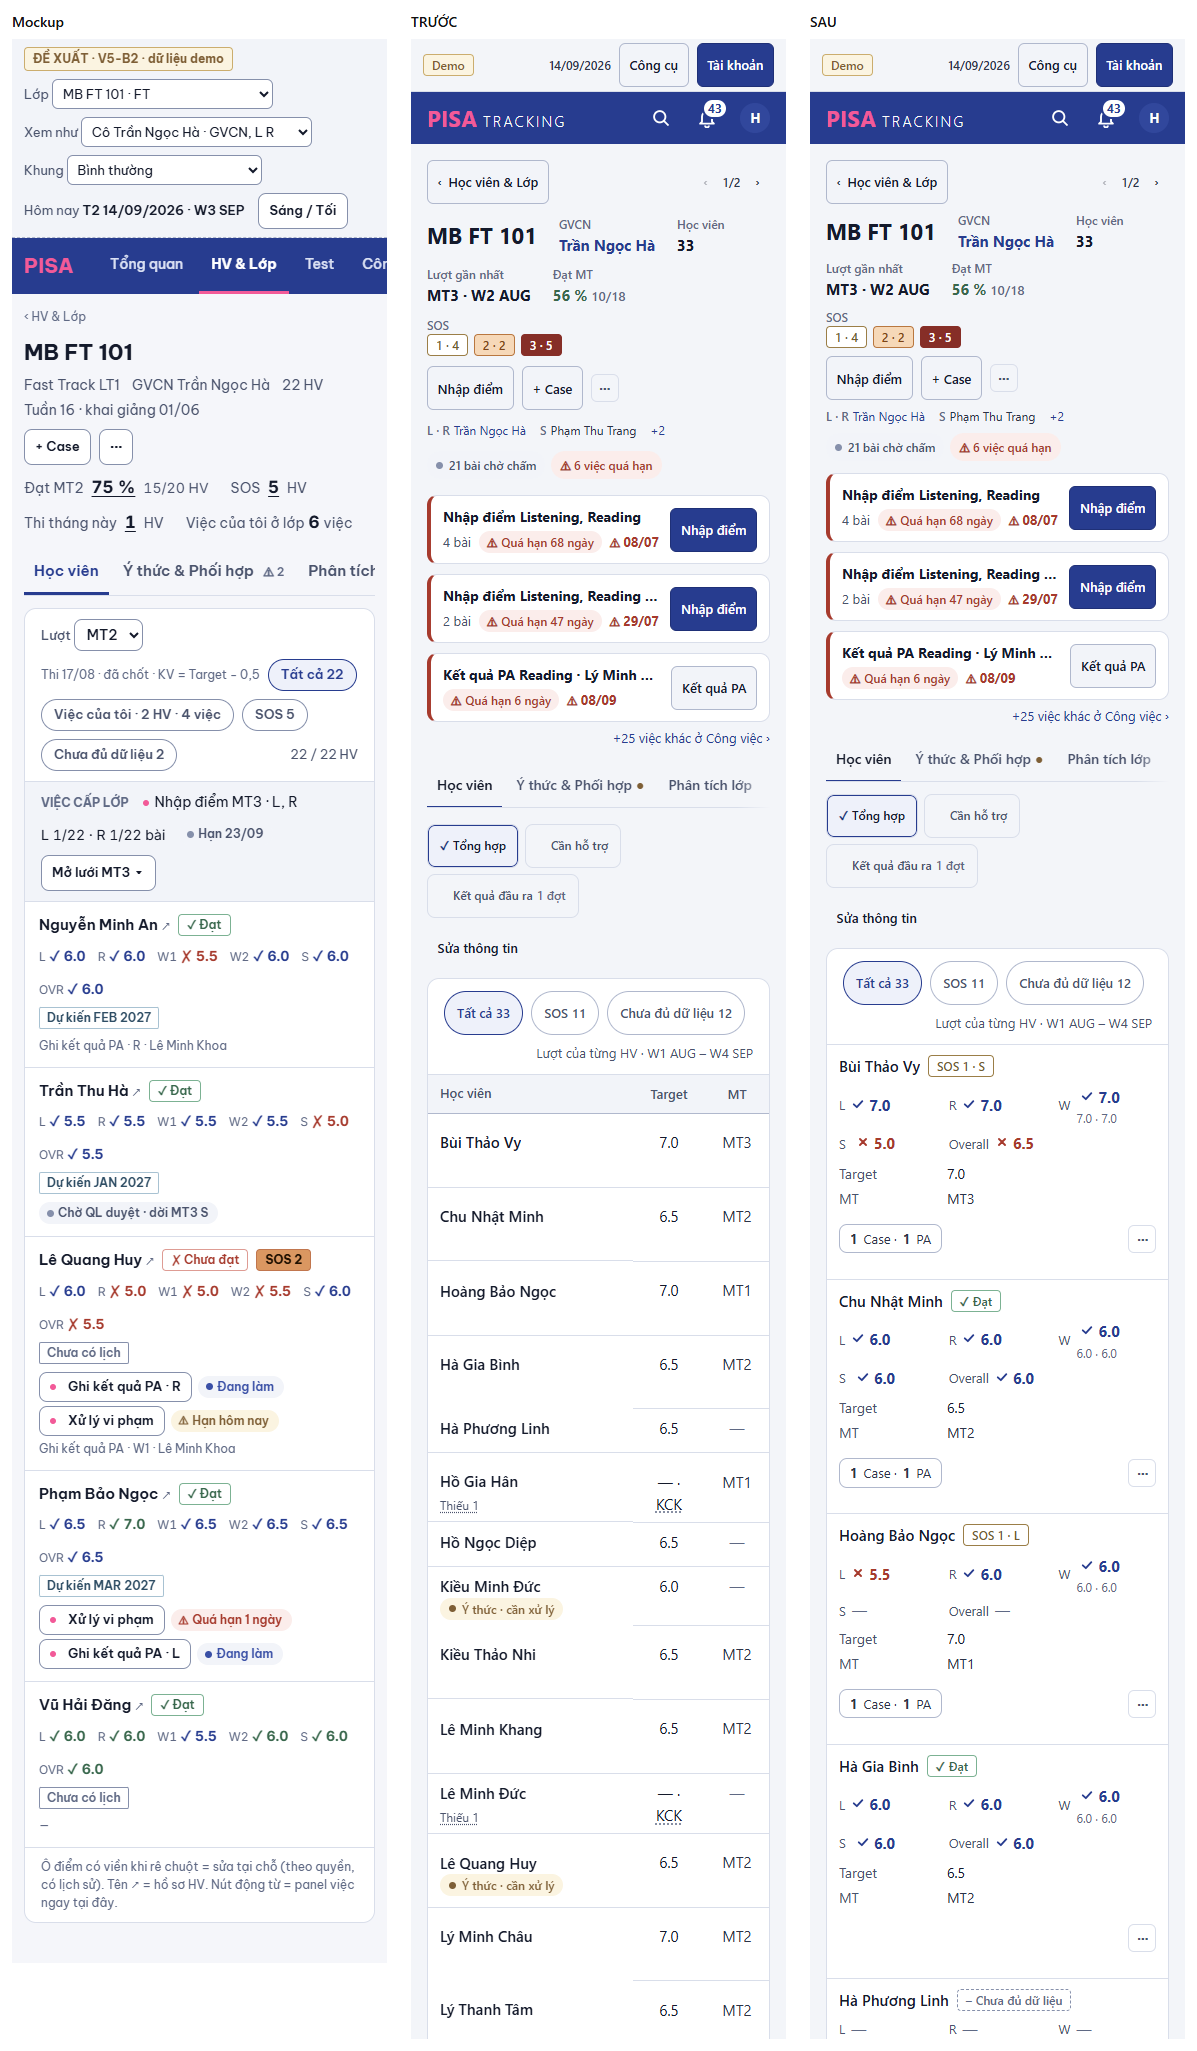
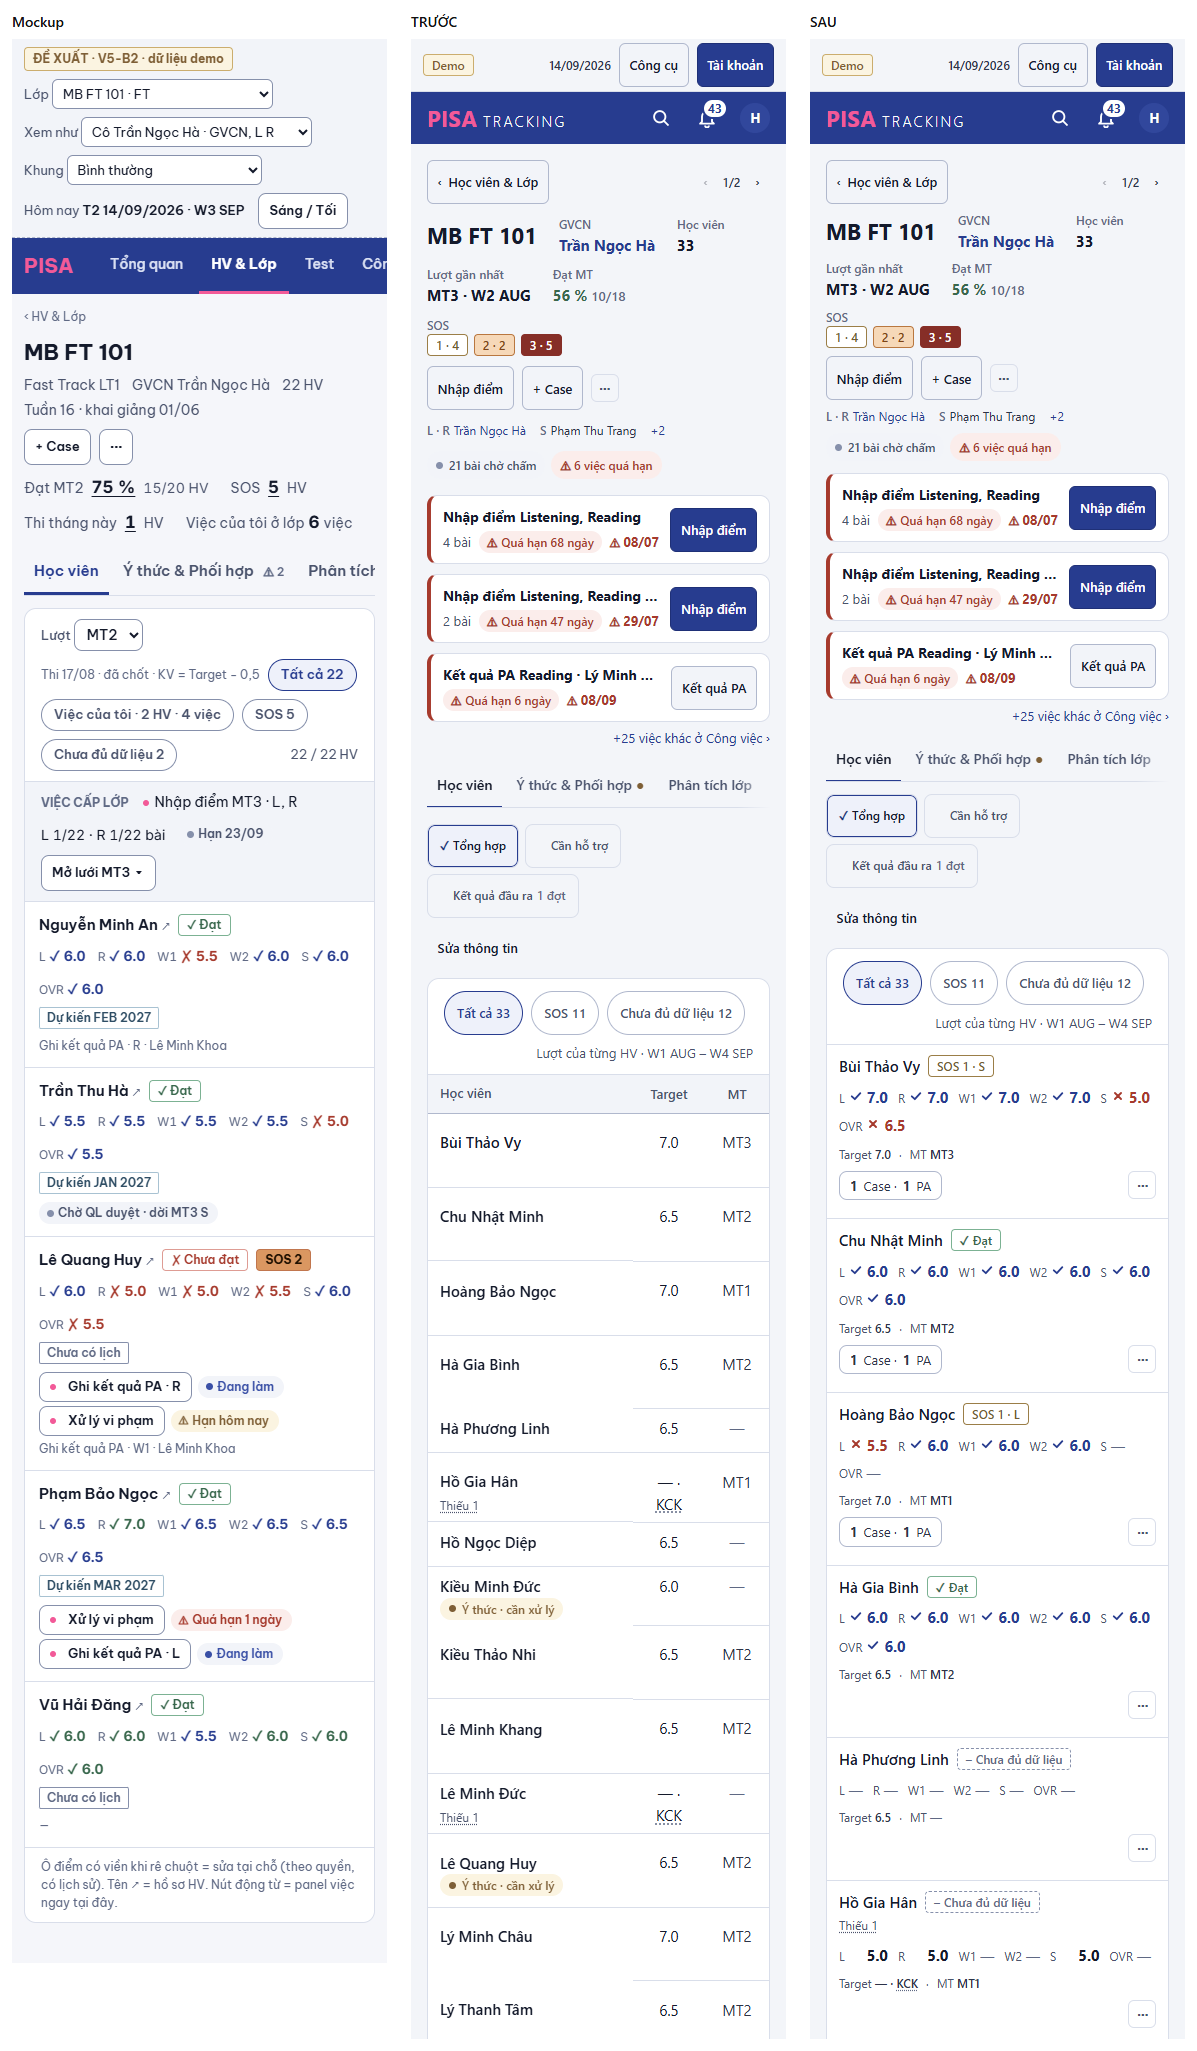
RA-UI-8 (vòng 2): thẻ em 375 theo mockup .the-dt
- Thẻ: tên + Kết quả · một hàng L R W1 W2 S (tách W1 · W2 như mockup, C18) · OVR · dòng phụ Target · MT (+ Ngày thi, Phụ huynh) · Case + PA trái, ⋯ phải
- Bang: thêm theRieng (thân thẻ tự vẽ, khung / lớp hàng / sauThe vẫn của Bang)
- Ô W1 / W2 / S bấm mở Điểm thành phần, vùng chạm 44 px bằng after, không đệm ở điện thoại
- Thẻ trung bình 235 → 162 px; ảnh 375 + khop-khac cập nhật

diff --git a/web/src/modules/classes/BangHoSoLop.tsx b/web/src/modules/classes/BangHoSoLop.tsx
@@ -37,6 +37,8 @@ type CaseLop = {
 type Hang = RosterRow & { lichThi?: LichThi; standing?: KetQuaVao | null };
 type Moc = RosterRow['history'][number] & { writing?: number | null; expectation?: number | null; khongHoc?: string[]; khongDuBoMon?: boolean };
 type Loc = 'tat-ca' | 'sos' | 'thieu';
+type KyO = 'l' | 'r' | 'w' | 'w1' | 'w2' | 's' | 'ovr';
+const BAND = { l: 'listening', r: 'reading', s: 'speaking', w1: 'writing1', w2: 'writing2' } as const;
 /* Chip lọc — cùng dáng chip của `CongTacKhung` (kieu chip). */
 const CHIP_CHON = 'font-semibold border-[color:var(--accent)] bg-[color:var(--accent-soft)] text-[color:var(--accent)]';
 const CHIP_THUONG = 'font-medium border-[color:var(--line-strong)] bg-transparent text-slate-300 hover:text-slate-100';
@@ -101,21 +103,23 @@ export function BangHoSoLop({ classId, maLop, quyen, onDoi, chon, onThemHocVien 
   const ngCanh: NguCanhDs = { loai: 'hoc-vien', ids: ds.map((s) => s.id), nhan: t('Lớp {lop}', { lop: maLop }) };
   const xong = () => { invalidate(`/cases?classId=${classId}`); cases.reload(); roster.reload(); onDoi(); };
 
-  const oDiem = (r: Hang, h: Moc | null, k: 'l' | 'r' | 'w' | 's' | 'ovr') => {
+  /* Thẻ 375 (mockup: "vẫn tách W1 · W2", C18) dùng thêm w1 / w2; bấm W1 / W2 / W / S → điểm thành phần. */
+  const oDiem = (r: Hang, h: Moc | null, k: KyO) => {
     if (!h) return <span className="text-faint">—</span>;
     /* P8 (mockup k6): môn em không học → "Không học"; Overall thiếu bộ môn → "Không đủ bộ môn" (khác "—" chưa điểm). */
     const kh = h.khongHoc ?? [];
-    if (k === 'w' ? kh.includes('writing1') && kh.includes('writing2') : k !== 'ovr' && kh.includes(k === 'l' ? 'listening' : k === 'r' ? 'reading' : 'speaking')) return <OKhongHoc nhan={k.toUpperCase()} />;
+    if (k === 'w' ? kh.includes('writing1') && kh.includes('writing2') : k !== 'ovr' && kh.includes(BAND[k])) return <OKhongHoc nhan={k.toUpperCase()} />;
     if (k === 'ovr' && h.overall == null && h.khongDuBoMon && h.scoredRequired === h.requiredCount) return <NhanKq kq="thieu">{t('Không đủ bộ môn')}</NhanKq>;
-    const v = k === 'ovr' ? h.overall : k === 'w' ? h.writing ?? null : h.bands?.[k === 'l' ? 'listening' : k === 'r' ? 'reading' : 'speaking'] ?? null;
+    const v = k === 'ovr' ? h.overall : k === 'w' ? h.writing ?? null : h.bands?.[BAND[k]] ?? null;
     const o = <ODiem kieu={dienThoai ? 'doc' : 'to'} so={v === null ? null : fmtBand(v)} kq={h.lichSu ? null : soKyVong(v, h.expectation ?? null)} nhan={k === 'ovr' ? 'Overall' : k.toUpperCase()} kyVong={h.expectation != null ? fmtBand(h.expectation) : undefined} />;
-    if ((k !== 'w' && k !== 's') || v === null) return o;
-    const dangMo = pop?.sid === r.id && pop.kn === k;
+    const kn = k === 's' ? 's' : k === 'w' || k === 'w1' || k === 'w2' ? 'w' : null;
+    if (!kn || v === null) return o;
+    const dangMo = pop?.sid === r.id && pop.kn === kn;
     return (
       <button type="button" aria-haspopup="dialog" aria-expanded={dangMo} title={t('Điểm thành phần')}
-        className="relative appearance-none rounded border-0 bg-transparent px-1 py-0.5 hover:bg-[color:var(--nut-hover)] after:absolute after:inset-x-0 after:-inset-y-2.5 after:content-[''] sm:after:hidden"
+        className="relative appearance-none rounded border-0 bg-transparent px-1 py-0.5 max-sm:p-0 hover:bg-[color:var(--nut-hover)] after:absolute after:inset-x-0 after:-inset-y-2.5 after:content-[''] sm:after:hidden"
         /* RA-UI-8: vùng chạm 44 px ở điện thoại bằng `after` (không nới cao nút) — thẻ em gọn như mockup 375. */
-        onClick={(e) => { const nut = e.currentTarget; setPop(dangMo ? null : { sid: r.id, kn: k, nut }); }}>{o}</button>
+        onClick={(e) => { const nut = e.currentTarget; setPop(dangMo ? null : { sid: r.id, kn, nut }); }}>{o}</button>
     );
   };
   const oCua = (r: Hang, c: DinhNghiaCot): ReactNode => {
@@ -163,11 +167,33 @@ export function BangHoSoLop({ classId, maLop, quyen, onDoi, chon, onThemHocVien 
     const [w1, w2] = [h.bands?.writing1 ?? null, h.bands?.writing2 ?? null];
     return w1 === null && w2 === null ? null : `${w1 === null ? '—' : fmtBand(w1)} · ${w2 === null ? '—' : fmtBand(w2)}`;
   };
-  /* Thẻ 375: dòng phụ của ô điểm (W1 · W2, "vắng …") ngay dưới ô — chế độ thẻ của `Bang` chỉ vẽ `phuCua` của cột tên. */
-  const oThe = (r: Hang, c: DinhNghiaCot): ReactNode => {
-    const o = oCua(r, c);
-    const phu = c.kieu === 'diem' ? phuCua(r, c) : null;
-    return phu ? <span className="inline-flex flex-col items-start">{o}<span className="text-[12px] leading-4 text-faint" data-phu-odiem="">{phu}</span></span> : o;
+  /*
+   * THẺ EM 375 (mockup `ho-so-lop.html` `.the-dt`): tên + Kết quả · một hàng điểm L R W1 W2 S OVR (14 px, nhãn 12 xám, khe 12; "vắng …" nhỏ ngay sau
+   * ô) · dòng phụ Target · MT · Ngày thi (· Phụ huynh) · hàng cuối Case + PA trái, ⋯ phải. Cùng ô / thao tác với bảng 1440.
+   */
+  const cotTheo = new Map(COT.map((c) => [c.key, c]));
+  const o = (r: Hang, k: string) => oCua(r, cotTheo.get(k)!);
+  const theEm = (r: Hang): ReactNode => {
+    const h = mocCua(r);
+    const vang = (kn: string) => (h?.vangCu?.[kn] ? <span className="text-[12px] text-faint">{chuDoiVang(h.vangCu[kn], homNay)}</span> : null);
+    return (
+      <div className="flex flex-col gap-2">
+        <div className="flex min-w-0 flex-wrap items-start gap-2 text-[15px]">{o(r, 'ten')}{o(r, 'kq')}</div>
+        <div className="flex flex-wrap items-baseline gap-x-2.5 gap-y-1.5 text-[14px]">
+          {(['l', 'r', 'w1', 'w2', 's', 'ovr'] as const).map((k) => (
+            <span key={k} className="inline-flex items-baseline gap-1">
+              <span className="text-[12px] text-slate-400">{k === 'ovr' ? 'OVR' : k.toUpperCase()}</span>{oDiem(r, h, k)}{k !== 'ovr' && vang(k === 'w1' || k === 'w2' ? 'writing' : BAND[k])}
+            </span>
+          ))}
+        </div>
+        <div className="flex flex-wrap items-center gap-x-2 gap-y-1 text-[12px] text-slate-400">
+          <span>Target <b className="font-semibold tabular-nums text-slate-200">{o(r, 'target')}</b></span><span aria-hidden>·</span>
+          <span>MT <b className="font-semibold text-slate-200">{o(r, 'mt')}</b></span>
+          {o(r, 'thi')}{quyen.theoVai && o(r, 'ph')}
+        </div>
+        <div className="flex items-center justify-between gap-2">{o(r, 'cp')}{o(r, 'nut')}</div>
+      </div>
+    );
   };
   const lopHang = (r: Hang) => `${r.status !== 'active' ? 'row-muted' : ''} ${chon?.chon.has(r.id) ? 'bg-[color:var(--accent-soft)]' : ''}`;
   const caseMo = (r: Hang) => (caseCua.get(r.id) ?? []).map((ca) => <TheCase key={ca.id} c={ca} ngan={ngan} onMo={(view) => setNgan2({ caseId: ca.id, view, hv: r.fullName })} />);
@@ -206,9 +232,8 @@ export function BangHoSoLop({ classId, maLop, quyen, onDoi, chon, onThemHocVien 
           </span>
         )}
       </div>
-      {/* Thẻ 375: cột Case + PA xuống hàng cuối thẻ cạnh ⋯ (kiểu `viec` → phần dưới của thẻ). */}
-      <Bang ten={t('Học viên lớp {lop}', { lop: maLop })} cot={dienThoai ? COT.map((c) => (c.key === 'cp' ? { ...c, kieu: 'viec' as const } : c)) : COT} hang={ds} khoa={(r) => r.id}
-        oCua={dienThoai ? oThe : oCua} phuCua={phuCua} hangRieng={hangCua} lopHang={lopHang} dangMo={(r) => mo === r.id}
+      <Bang ten={t('Học viên lớp {lop}', { lop: maLop })} cot={COT} hang={ds} khoa={(r) => r.id}
+        oCua={oCua} phuCua={phuCua} hangRieng={hangCua} theRieng={theEm} lopHang={lopHang} dangMo={(r) => mo === r.id}
         sauThe={(r) => mo === r.id && <div id={`case-${r.id}`} className="mt-2 flex flex-col gap-2.5">{caseMo(r)}</div>}
         khung={false} dinh rong={{ tieuDe: loc === 'tat-ca' ? t('Lớp chưa có học viên') : t('Không có học viên nào'), nut: loc === 'tat-ca' && onThemHocVien ? <button type="button" className="btn btn-sm" onClick={onThemHocVien}>{t('Thêm học viên')}</button> : undefined }} />
       {pop && (() => { const r = tatCa.find((x) => x.id === pop.sid); const h = r && mocCua(r); return h ? <PopThanhPhan attemptId={h.id} kn={pop.kn} nut={pop.nut} tong={h.writing ?? null} onDong={() => setPop(null)} /> : null; })()}

diff --git a/web/src/ui/Bang.tsx b/web/src/ui/Bang.tsx
@@ -13,7 +13,7 @@ export type { DinhNghiaCot as CotBang } from '@shared/domain/index.ts';
  * Tiêu đề chỉ nhận chữ (`nhan`, `phu`) — cấm ô nhập / nút trong `th`. < 640 px: thẻ từ cùng định nghĩa cột.
  * Hàng bấm được (`onHang`) = `.bam` + Enter; đang mở = `.dang-mo`; bảng ≥ 8 cột không bấm = dò hàng `.do-hang`.
  */
-export function Bang<H>({ ten, cot, hang, khoa, oCua = () => null, phuCua, congCu, onHang, dangMo, rong, day, chat, hangRieng, cuoi, the375 = true, dinh, khung = true, deu, lopHang, sauThe }: {
+export function Bang<H>({ ten, cot, hang, khoa, oCua = () => null, phuCua, congCu, onHang, dangMo, rong, day, chat, hangRieng, cuoi, the375 = true, dinh, khung = true, deu, lopHang, sauThe, theRieng }: {
   /** Tên bảng cho trình đọc màn + công cụ đo `do-bang`. */
   ten: string;
   cot: readonly DinhNghiaCot[];
@@ -37,6 +37,8 @@ export function Bang<H>({ ten, cot, hang, khoa, oCua = () => null, phuCua, congC
   lopHang?: (h: H) => string;
   /** RA-UI-8: phần mở thêm ở cuối thẻ (< 640 px) — thay hàng mở dưới hàng của `hangRieng` (vd các Case của em). */
   sauThe?: (h: H) => ReactNode;
+  /** RA-UI-8: thân thẻ tự vẽ (< 640 px) khi mockup 375 của màn có dáng thẻ riêng — khung thẻ, lớp hàng, `sauThe` vẫn do `Bang`. */
+  theRieng?: (h: H) => ReactNode;
   /** Hàng thêm sau cùng (hàng mờ "em chưa có lịch"). */
   cuoi?: ReactNode;
   /** false: không đổi thành thẻ ở < 640 px (lưới nhập điểm có màn điện thoại riêng). */
@@ -67,6 +69,7 @@ export function Bang<H>({ ten, cot, hang, khoa, oCua = () => null, phuCua, congC
     than = hang.map((h) => (
       <article key={khoa(h)} className={`border-t px-3 py-2.5 first:border-t-0 ${lop(h)}`} style={{ borderColor: 'var(--line)' }}
         tabIndex={onHang ? 0 : undefined} onClick={onHang ? () => onHang(h) : undefined} onKeyDown={phim(h)}>
+        {theRieng ? theRieng(h) : <>
         <div className="flex min-w-0 flex-wrap items-center gap-x-2 gap-y-1 text-[15px]">{phan.dau.map((k) => <Fragment key={k}>{o(h, k)}</Fragment>)}</div>
         {phuCua && coPhu(phuCua(h, theoKey.get(phan.dau[0])!)) && <div className="text-[13px] text-slate-400">{phuCua(h, theoKey.get(phan.dau[0])!)}</div>}
         {phan.diem.length > 0 && (
@@ -86,6 +89,7 @@ export function Bang<H>({ ten, cot, hang, khoa, oCua = () => null, phuCua, congC
           </dl>
         )}
         {phan.duoi.length > 0 && <div className="mt-2 flex min-h-[44px] items-center justify-between gap-2 text-[14px]">{phan.duoi.map((k) => <Fragment key={k}>{o(h, k)}</Fragment>)}</div>}
+        </>}
         {sauThe?.(h)}
       </article>
     ));

diff --git a/docs/anh/ra-ui-8/khop-khac.md b/docs/anh/ra-ui-8/khop-khac.md
@@ -5,15 +5,15 @@ Loại PR: **sửa nhỏ**, không đổi bố cục khối, không mất thao t
 ## Sửa
 | # | Chỗ | Trước | Sau | Lý do |
 |---|---|---|---|---|
-| 28 | Bảng HV hồ sơ lớp < 640 px (`BangHoSoLop`) | `the375={false}`: chỉ thấy Học viên · Target · MT, điểm phải cuộn ngang | Thẻ mỗi em (chế độ thẻ của `Bang`): tên + Kết quả (+ Ngày thi khi có lịch) · L R W S Overall (dòng phụ W1 · W2 / "vắng …" dưới ô) · Target · MT · hàng cuối "n Case · n PA" trái, ⋯ phải; Case mở ngay cuối thẻ | P1 critique 28; mockup 375 = thẻ em đủ điểm |
-| 28b | `Bang` (chung) | chế độ thẻ không có lớp hàng / phần mở thêm | thêm `lopHang` (row-muted, nền đang chọn) + `sauThe` (phần mở cuối thẻ) — tuỳ chọn, bảng khác không đổi | `hangRieng` không dùng ở thẻ |
-| 28c | Ô W / S bấm (điểm thành phần) | nút cao 44 px ở điện thoại → thẻ thưa | vùng chạm 44 px bằng `after` (nút giữ cỡ chữ) | thẻ gọn như mockup, vẫn đủ vùng chạm |
+| 28 | Bảng HV hồ sơ lớp < 640 px (`BangHoSoLop`) | `the375={false}`: chỉ thấy Học viên · Target · MT, điểm phải cuộn ngang | Thẻ mỗi em theo mockup `.the-dt` (vòng 2, PTA rà ảnh): dòng 1 tên + Kết quả · dòng 2 MỘT hàng `L R W1 W2 S` (14 px, nhãn 12 xám; "vắng …" nhỏ ngay sau ô) · `OVR` · dòng phụ 12 px `Target · MT` (+ chip Ngày thi khi có lịch, + Phụ huynh với TVV / CX) · hàng cuối "n Case · n PA" trái, ⋯ phải; Case mở ngay cuối thẻ | P1 critique 28; mockup 375 "vẫn tách W1 · W2 (C18)" — bấm W1 / W2 / S mở Điểm thành phần như W / S ở 1440 |
+| 28b | `Bang` (chung) | chế độ thẻ không có lớp hàng / phần mở thêm | thêm `lopHang` (row-muted, nền đang chọn) + `sauThe` (phần mở cuối thẻ) + `theRieng` (thân thẻ tự vẽ khi mockup 375 có dáng riêng) — tuỳ chọn, bảng khác không đổi | `hangRieng` không dùng ở thẻ; lưới nhãn / giá trị chung quá thưa so với mockup |
+| 28c | Ô W / S bấm (điểm thành phần) | nút cao 44 px ở điện thoại → thẻ thưa | vùng chạm 44 px bằng `after`, ở điện thoại không đệm (nút giữ cỡ chữ) | thẻ gọn như mockup, vẫn đủ vùng chạm |
 | 28d | Thẻ: ô điểm | chữ 17 px (dáng bảng 1440) | 15 px (`ODiem` `doc`) | mockup 375 |
 | 29 | Kẻ hàng cột tên dính (`.bang td.sticky-col`, 640–1023 px) | hàng cao lẻ (tên + nhãn "Ý thức · cần xử lý") mất / lệch vạch ở cột dính | vạch đáy bằng bóng trong, cùng hàng điểm ảnh với phần cuộn (đo pixel: trùng); hàng đang mở giữ vạch trái 3 px | P1 critique 29 |
 | B1 | Đầu hồ sơ lớp | khoảng cách khối 12 px · hàng số liệu cách dòng 10 px · trang 16 px ở 375 | 8 px (mockup `.dau-lop` / `.so-lop`) · 8 px · 12 px ở 375 (mockup `.trang`) | mật độ theo mockup |
 | B2 | Dải lớp chuyển (`DaiLopChuyen`) không dải nào | khối rỗng vẫn ăn một khoảng cách | ẩn (`empty:hidden`) | |
 
-Đo (GVCN 7, MB FT 101): bảng bắt đầu 1440: 376 → 364 px · 375: 818 → 788 px. Thẻ em ~235 px (mockup ~165–230).
+Đo (GVCN 7, MB FT 101): bảng bắt đầu 1440: 376 → 364 px · 375: 818 → 788 px. Thẻ em (33 em): vòng 1 ~235 px → vòng 2 **trung bình 162 px** (135–193; mockup ~150–230 tuỳ số chip việc). Hết lệch dòng ô W (W1, W2 cùng hàng với L R S).
 
 ## Ảnh
 `ho-so-lop-1440-toi.png` · `ho-so-lop-375-sang.png` — Mockup | TRƯỚC | SAU (phần đầu trang, 1100 / 2000 px đầu).
@@ -30,8 +30,8 @@ Loại PR: **sửa nhỏ**, không đổi bố cục khối, không mất thao t
 | Nhập điểm (đầu trang, ⋯ em) → panel ô sửa tại chỗ | có | có | có |
 Không mất thao tác nào.
 
-## Thử ô sửa / thao tác (Playwright, `thu8.mjs`, 46/46 ĐẠT — 375 và 1440 như nhau)
-- Bảng: 375 = 33 thẻ, 0 hàng bảng; 1440 = 33 hàng. Đủ L R W S Overall + "7.0 · 7.0". Tên → `/hoc-vien/48`. ⋯ mở 4 mục, Esc đóng. W → hộp Điểm thành phần (W1 · W2 + Sửa ›), Esc đóng. Case + PA mở / gập, nút trong Case mở panel tại trang. Chọn nhiều: ô chọn, nền chọn, thanh thao tác. Bảng không gửi yêu cầu ghi nào.
+## Thử ô sửa / thao tác (Playwright, `thu8.mjs`, 46/46 ĐẠT — 375 và 1440 như nhau; chạy lại sau vòng 2)
+- Bảng: 375 = 33 thẻ, 0 hàng bảng; 1440 = 33 hàng. 375: thẻ đủ L R W1 W2 S OVR + Target · MT; 1440: đủ L R W S Overall + "7.0 · 7.0". Tên → `/hoc-vien/48`. ⋯ mở 4 mục, Esc đóng. W (375: W1) → hộp Điểm thành phần (W1 · W2 + Sửa ›), Esc đóng. Case + PA mở / gập, nút trong Case mở panel tại trang. Chọn nhiều: ô chọn, nền chọn, thanh thao tác. Bảng không gửi yêu cầu ghi nào.
 - Ô sửa điểm (Nhập điểm → L Bùi Thảo Vy): bấm ô → hộp sửa, con trỏ trong ô · gõ 30 + Esc → hỏi "Bỏ điểm …? Bỏ · Gõ tiếp" (không mất chữ), Gõ tiếp giữ 30, Bỏ → ô giữ "Nhập", không gửi gì · gõ 30 + Enter → PUT 200, ô "30 câu, band 7.0" · kịch bản "Không lưu được": gõ 31 + Enter → PUT 503, ô giữ giá trị cũ, hộp giữ "31", không báo xong · trả kịch bản normal → Enter lưu 31 (200) · xoá số + Enter → ô về trống (dọn dữ liệu thử). Kịch bản luôn trả `normal` (try/finally).
 
 ## Phép kiểm
@@ -42,4 +42,3 @@ Không mất thao tác nào.
 1. Gộp badge "n bài chờ chấm · n việc quá hạn" vào cùng hàng GV bộ môn (bớt ~36 px).
 2. Thanh việc: một hàng gọn "Việc của tôi ở lớp: n · quá hạn n ›" thay 3 ô (mockup chỉ có "Việc của tôi ở lớp 6 việc" ở hàng số liệu) — bớt ~70 px.
 3. Hàng Cách xem: đưa vào hàng chip lọc của bảng hoặc dời Sửa thông tin vào ⋯ (375: bớt ~90 px — nút đoạn 3 mục đang xuống 2 dòng + Sửa thông tin một dòng riêng).
-4. Thẻ 375: Target · MT đang là 2 dòng nhãn — có thể gộp một dòng "Target 7.0 · MT3" (cần thêm kiểu cột cho thẻ `Bang`).
